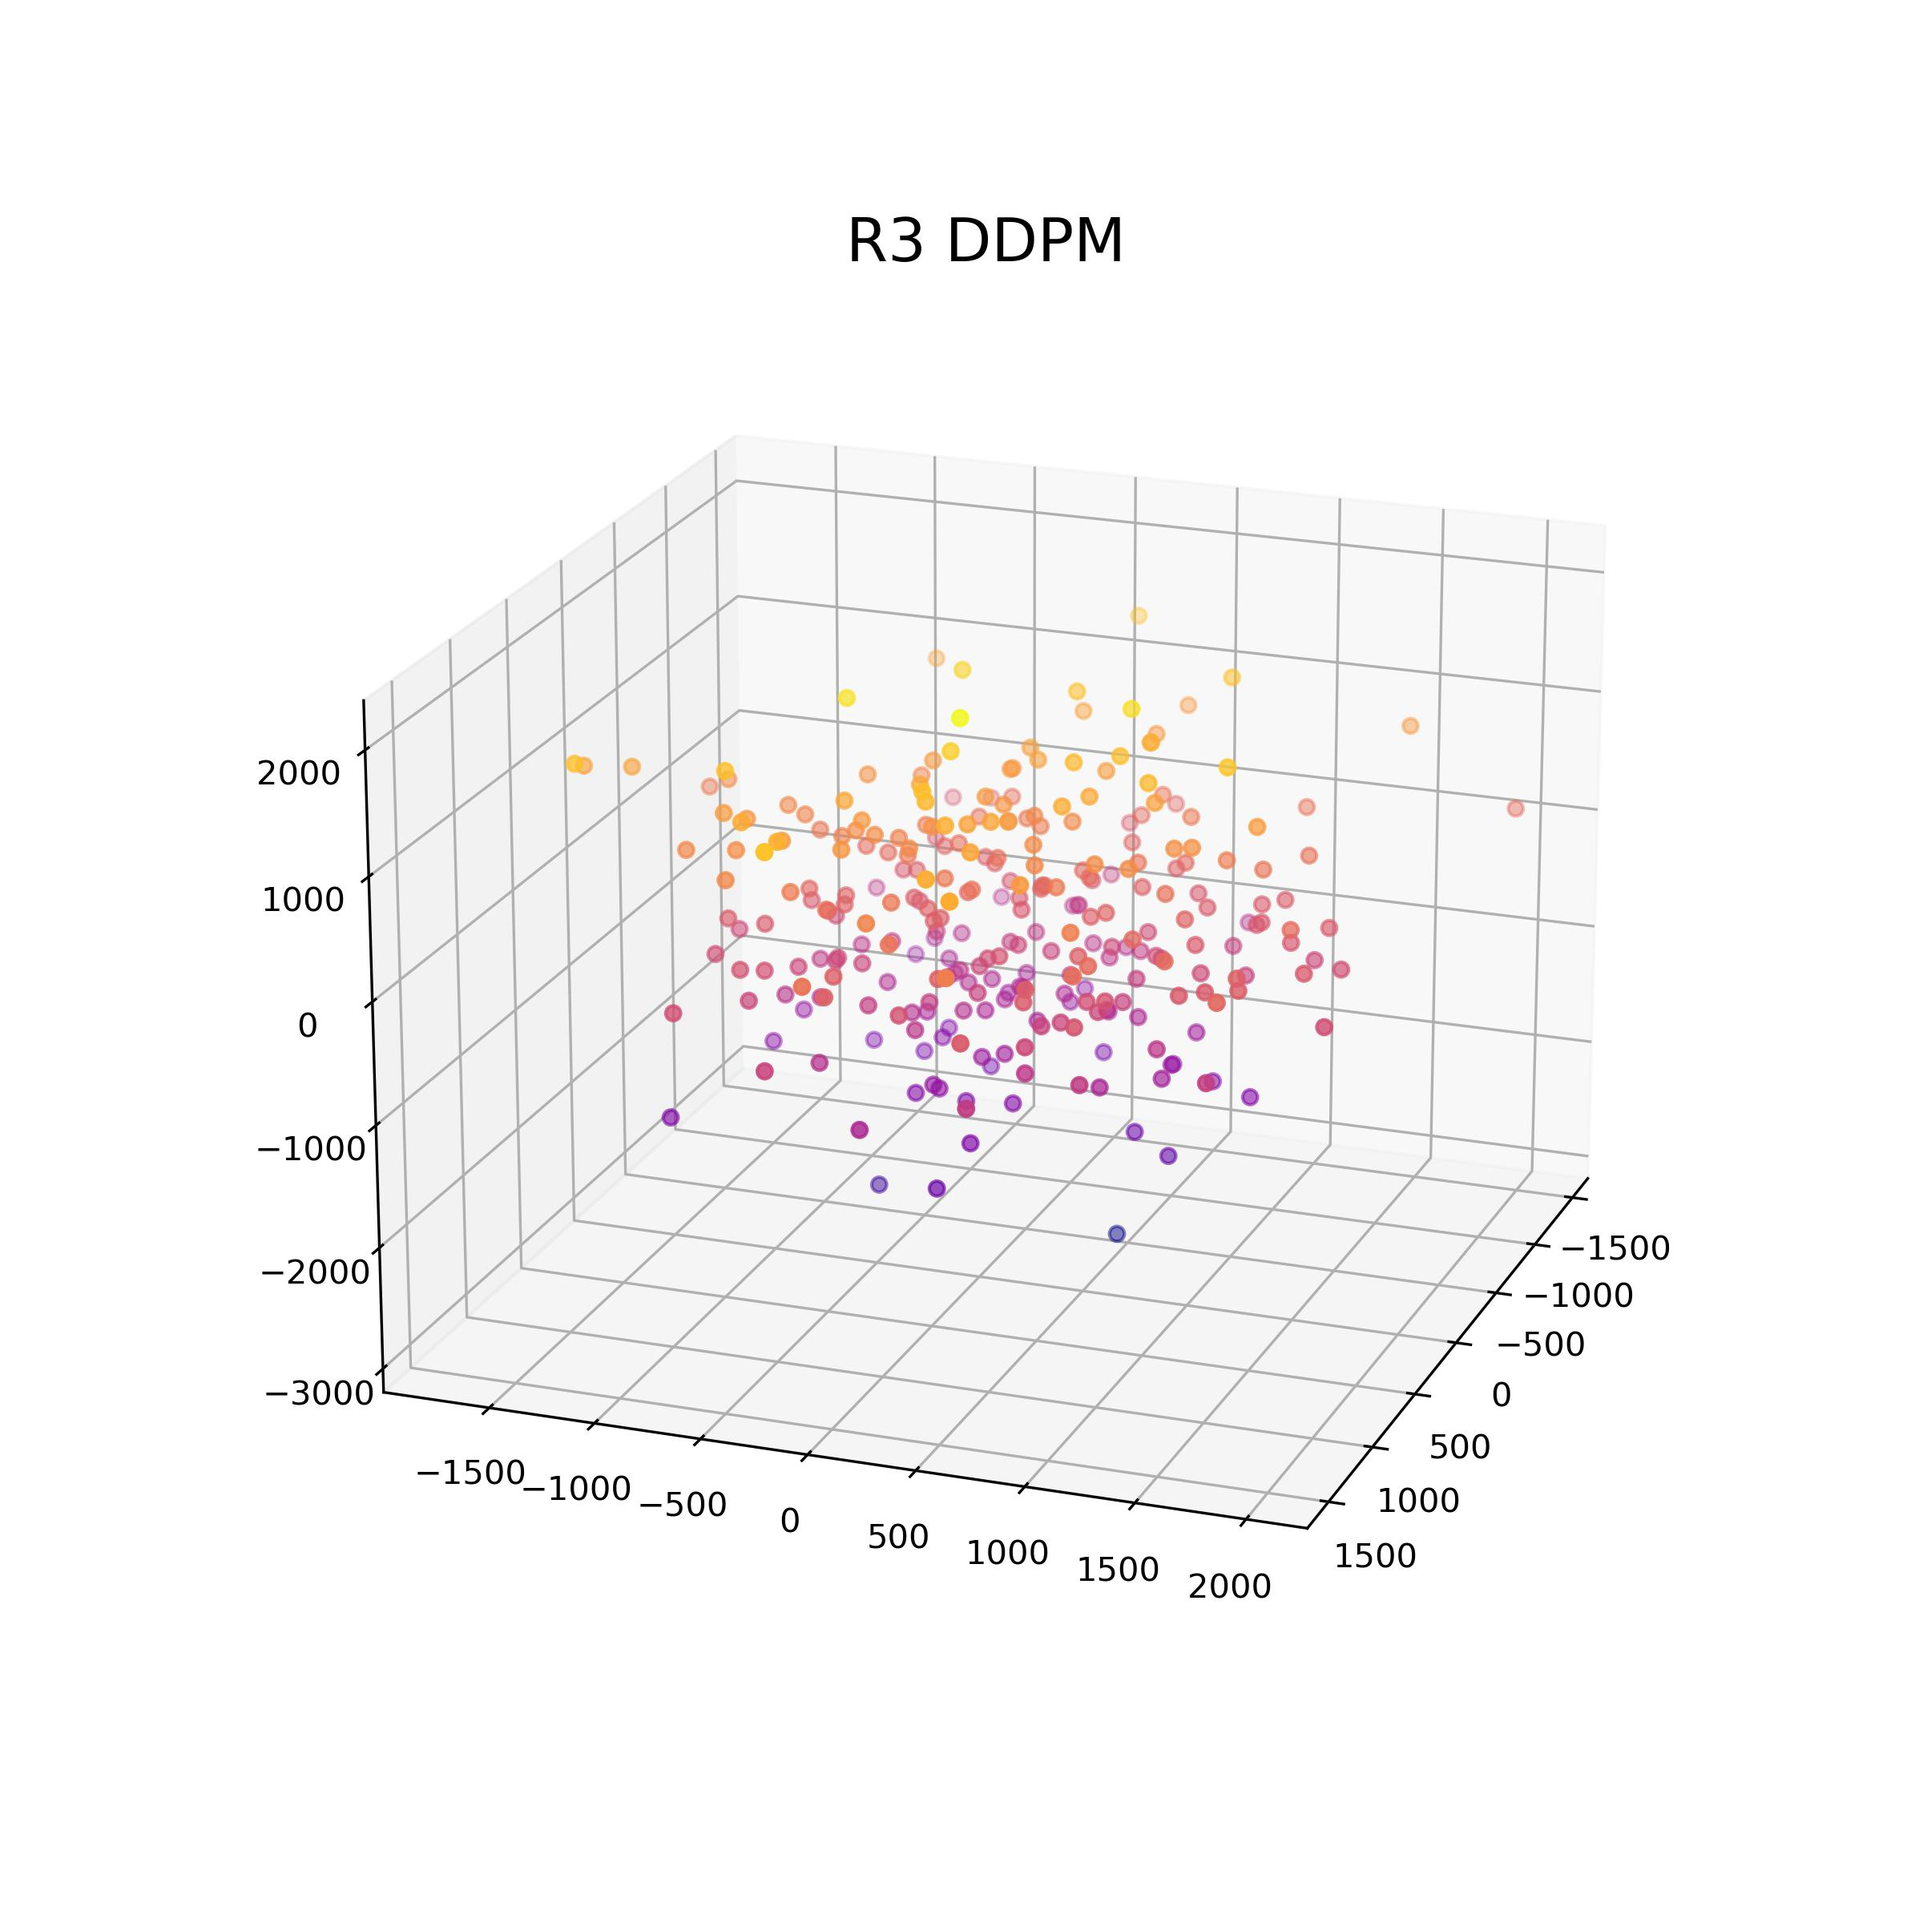
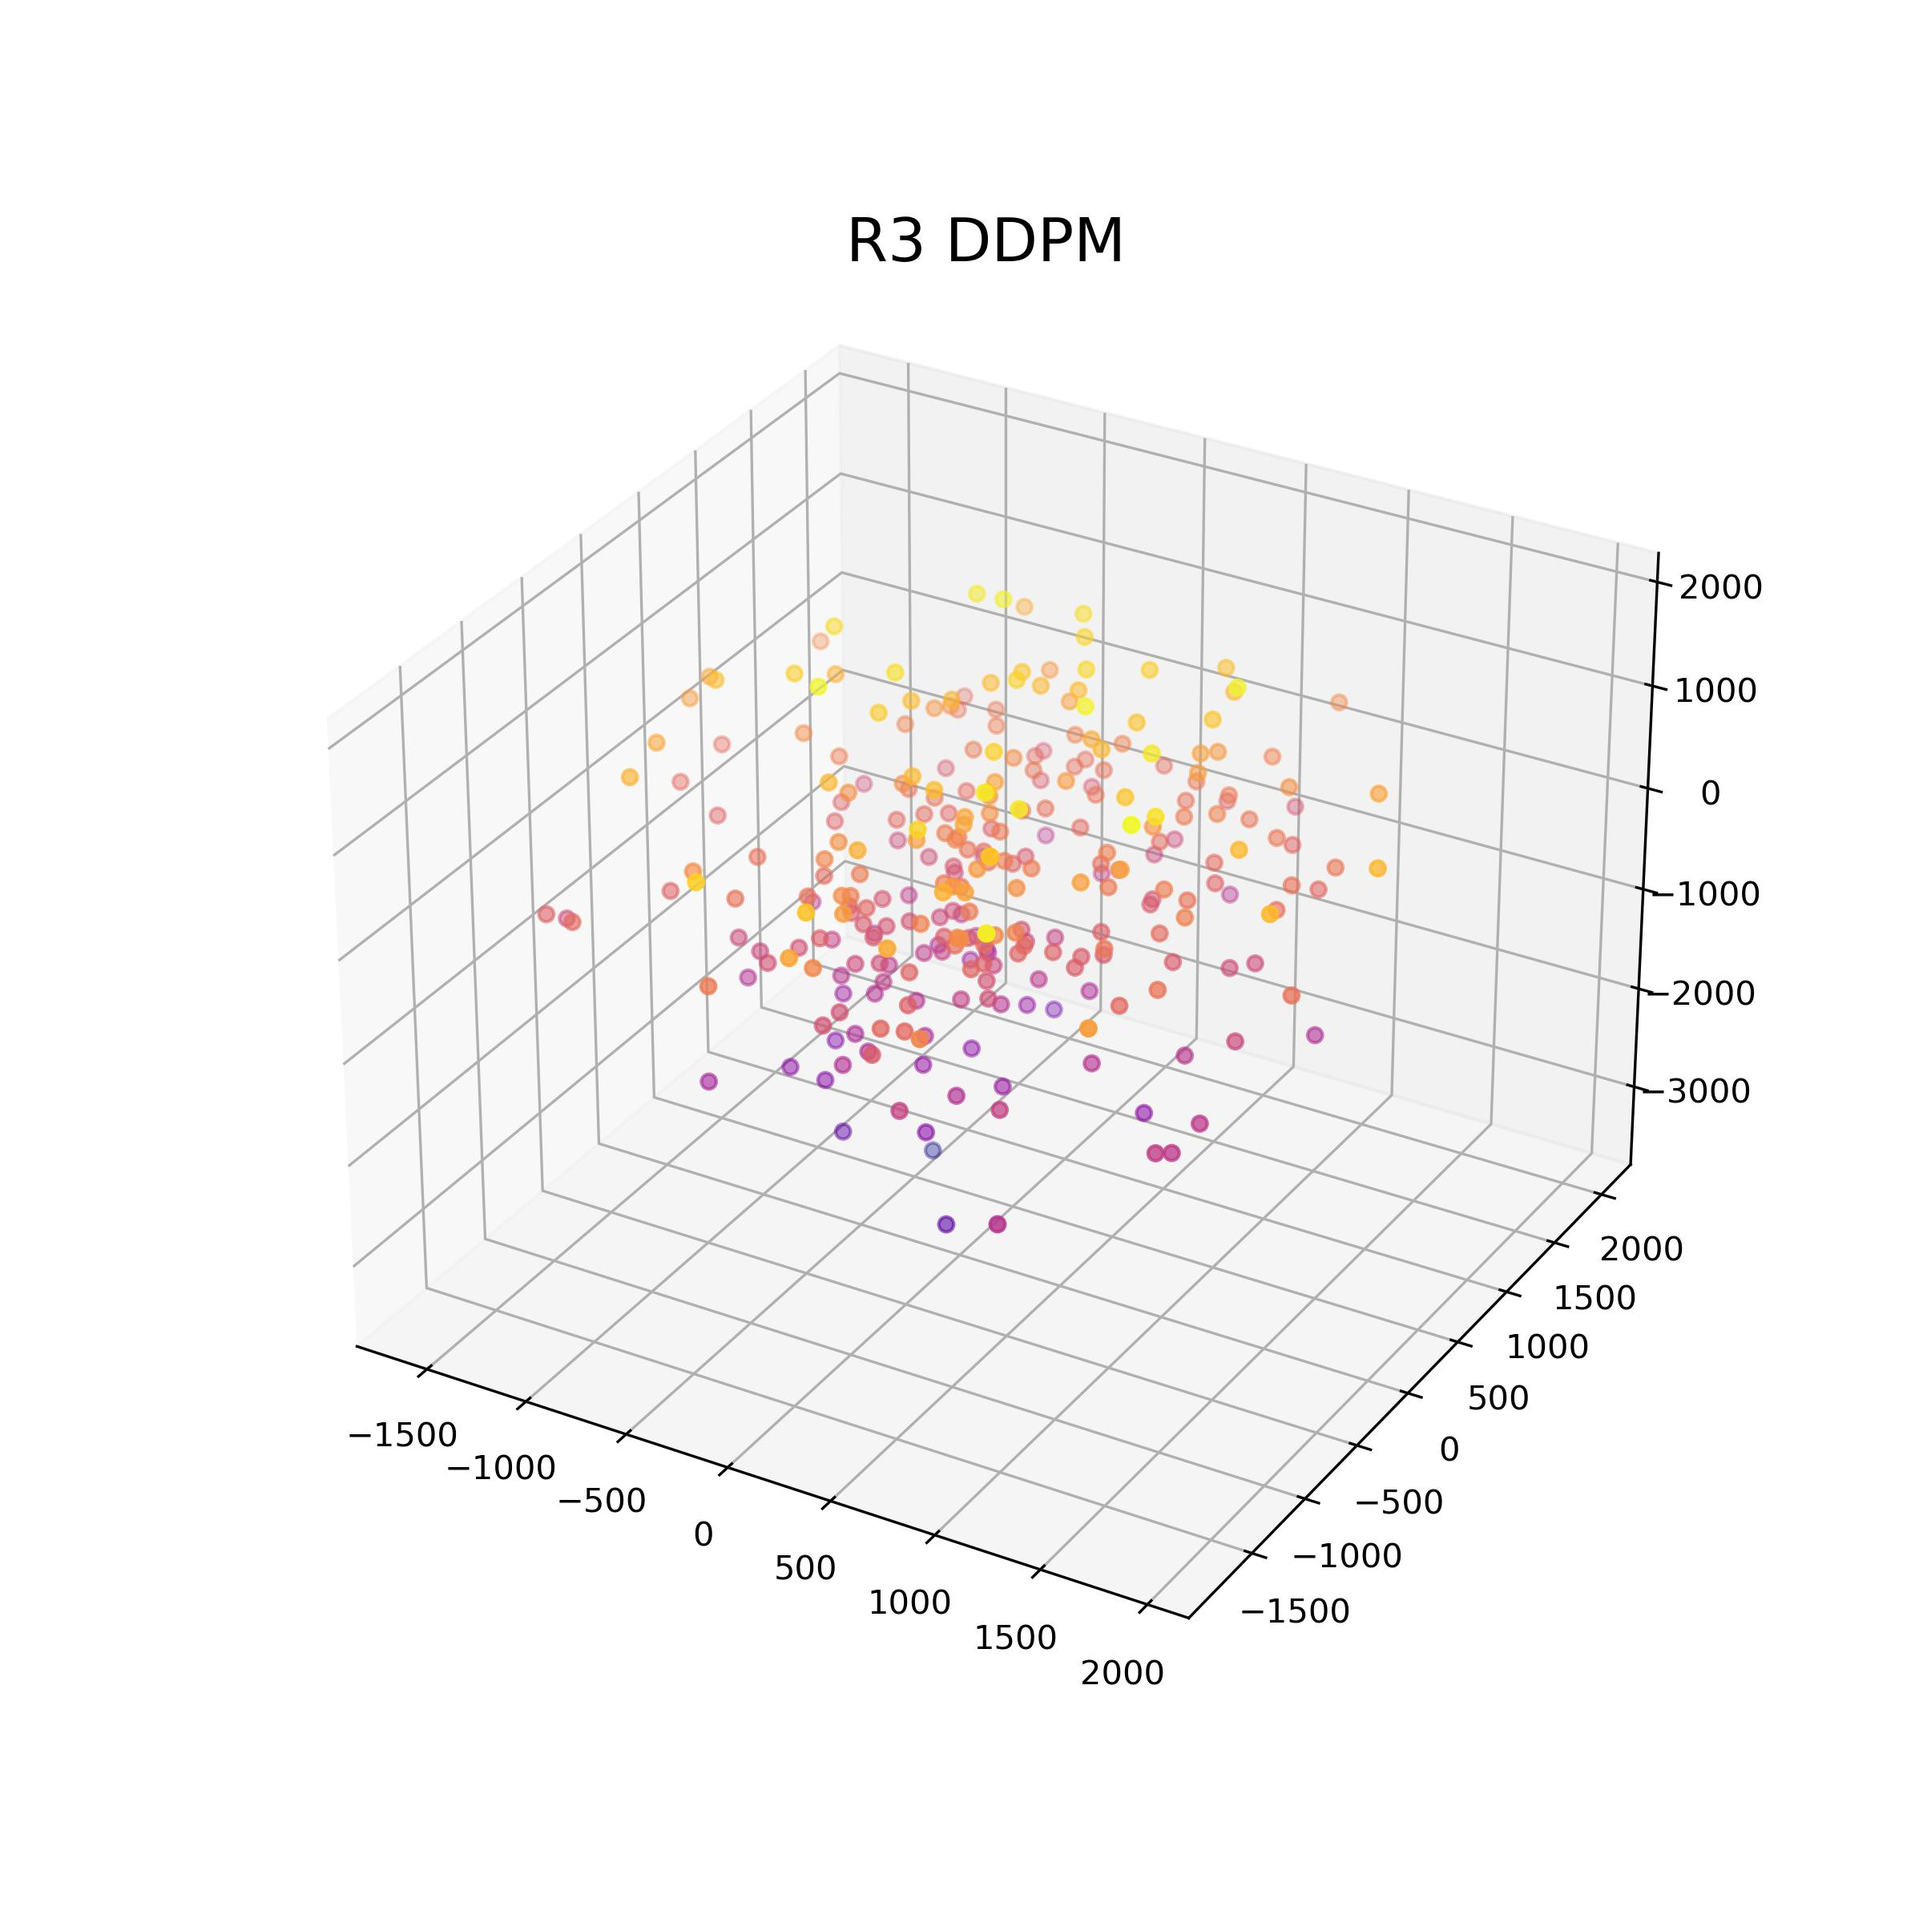
r3 ddpm done

diff --git a/mathematics/r3_experiments/r3_ddpm.py b/mathematics/r3_experiments/r3_ddpm.py
@@ -67,10 +67,16 @@ def inference(model, trans_t, t):
     with torch.no_grad():
         t_tensor = (t / n_timestep).to(device)
         input = torch.cat([trans_t, t_tensor[:, None, None]], dim=-1)
-        # rotvec_next, rotmatrix_next = model(input)
+
         z_pred = model(input)
         w_z = (1. - scheduler.alphas[t]) / scheduler.sqrt_one_minus_alphas_cumprod[t]
-        trans_next = (1. / scheduler.sqrt_alphas[t]).view(-1, 1, 1) * (trans_t - w_z.view(-1, 1, 1) * z_pred)
+        trans_mean = (1. / scheduler.sqrt_alphas[t]).view(-1, 1, 1) * (trans_t - w_z.view(-1, 1, 1) * z_pred)
+
+        trans_z = torch.randn_like(trans_mean).to(device)
+        trans_sigma = scheduler.sqrt_betas[t].view(-1, 1, 1)
+        trans_next = trans_mean + trans_sigma * trans_z
+
+
     return trans_next
 
 
@@ -94,7 +100,7 @@ def main_loop(model, optimizer, run_idx=0, num_epochs=150, display=True):
             w1ds.append(w_d1)
 
         if display and (epoch % 100)==0:
-            plot_r3(final_traj, adjust=True, title='R3 DDPM')
+            plot_r3(final_traj, title='R3 DDPM')
             plt.savefig(os.path.join(savedir, f"dataset_{dataset_name.split('.')[0]}_run{run_idx}_epoch{epoch}.jpg"))
             plt.show()
             print('wassterstein-1 distance:', w_d1)

diff --git a/mathematics/r3_experiments/data/datasets.py b/mathematics/r3_experiments/data/datasets.py
@@ -42,7 +42,7 @@ def get_split(data, split, seed):
         elif split == "valid":
             data = data[indices[int(n * 0.8) : int(n * 0.9)]]
         elif split == "test":
-            data = data[indices[int(n * 0.8) : ]]
+            data = data[indices[int(n * 0.7) : ]]
             # data = data
     return data
 
